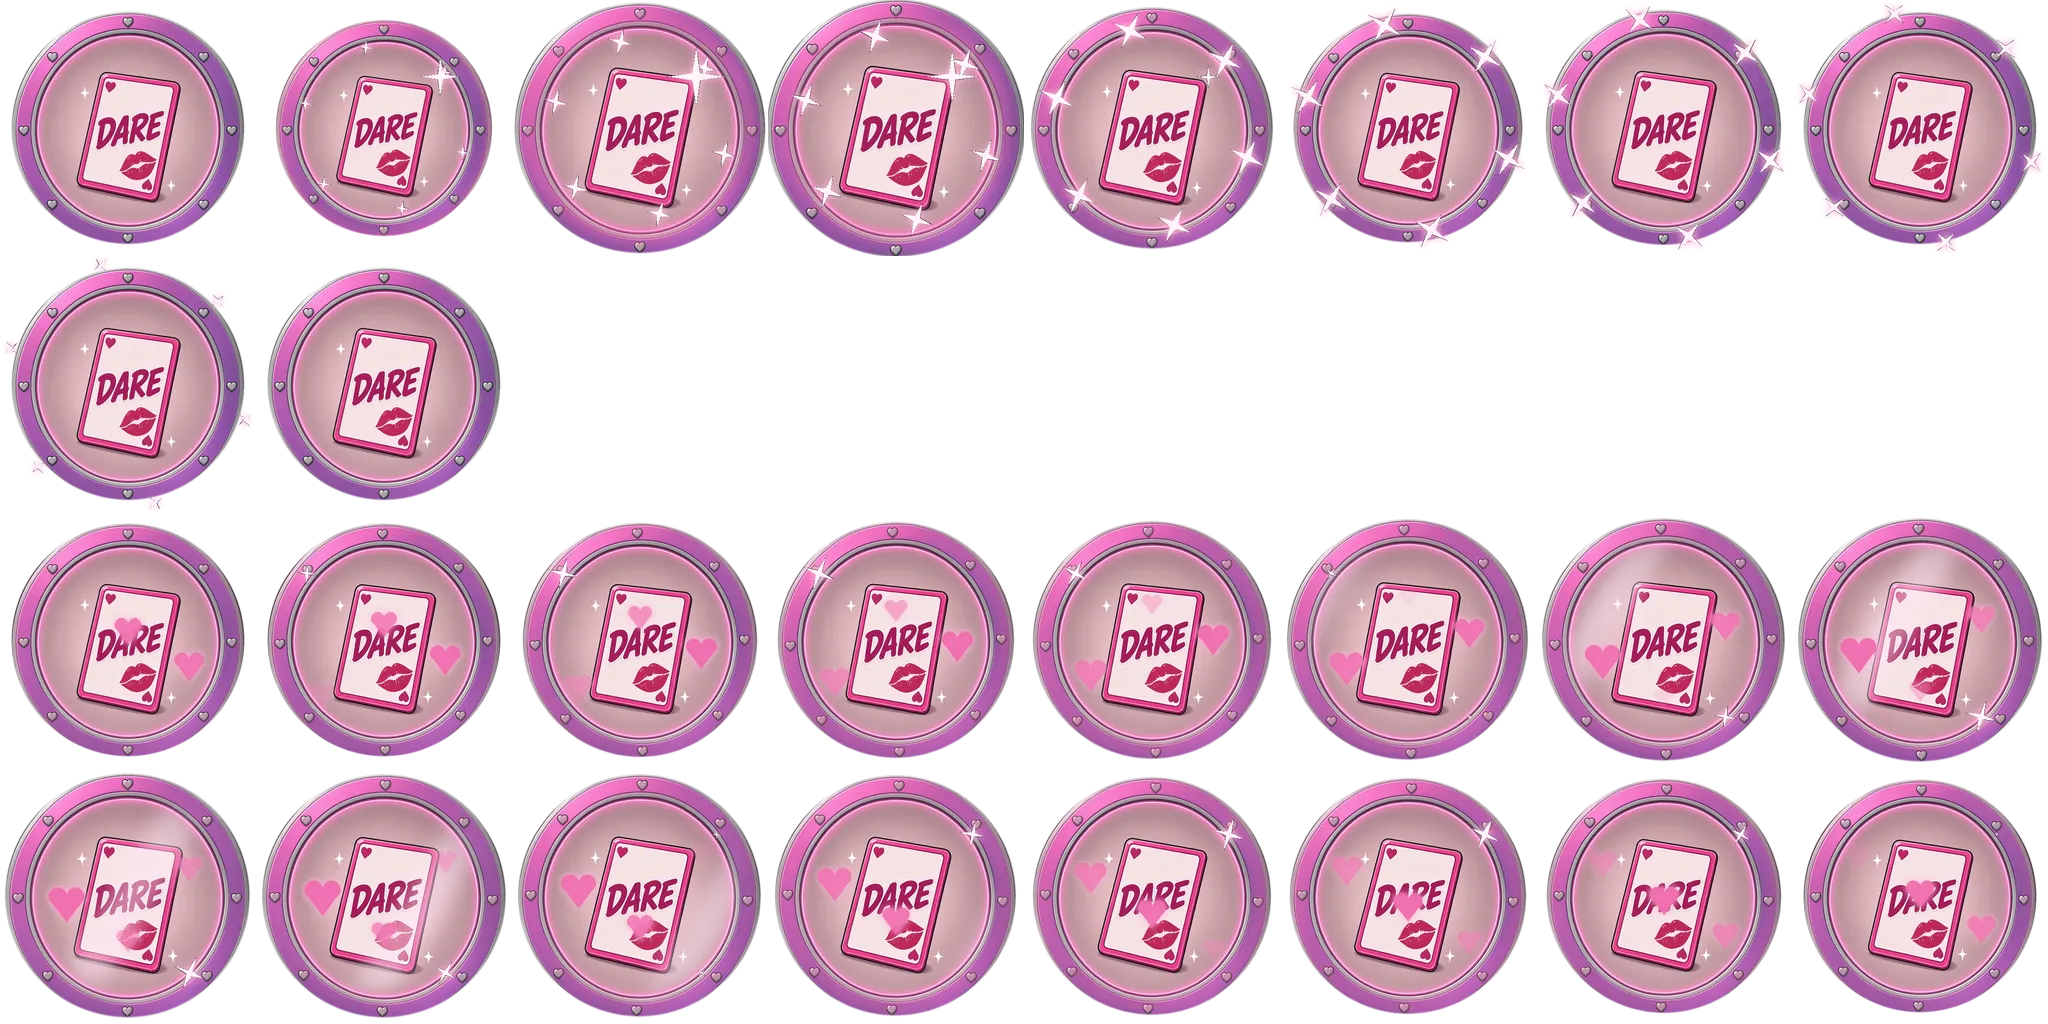
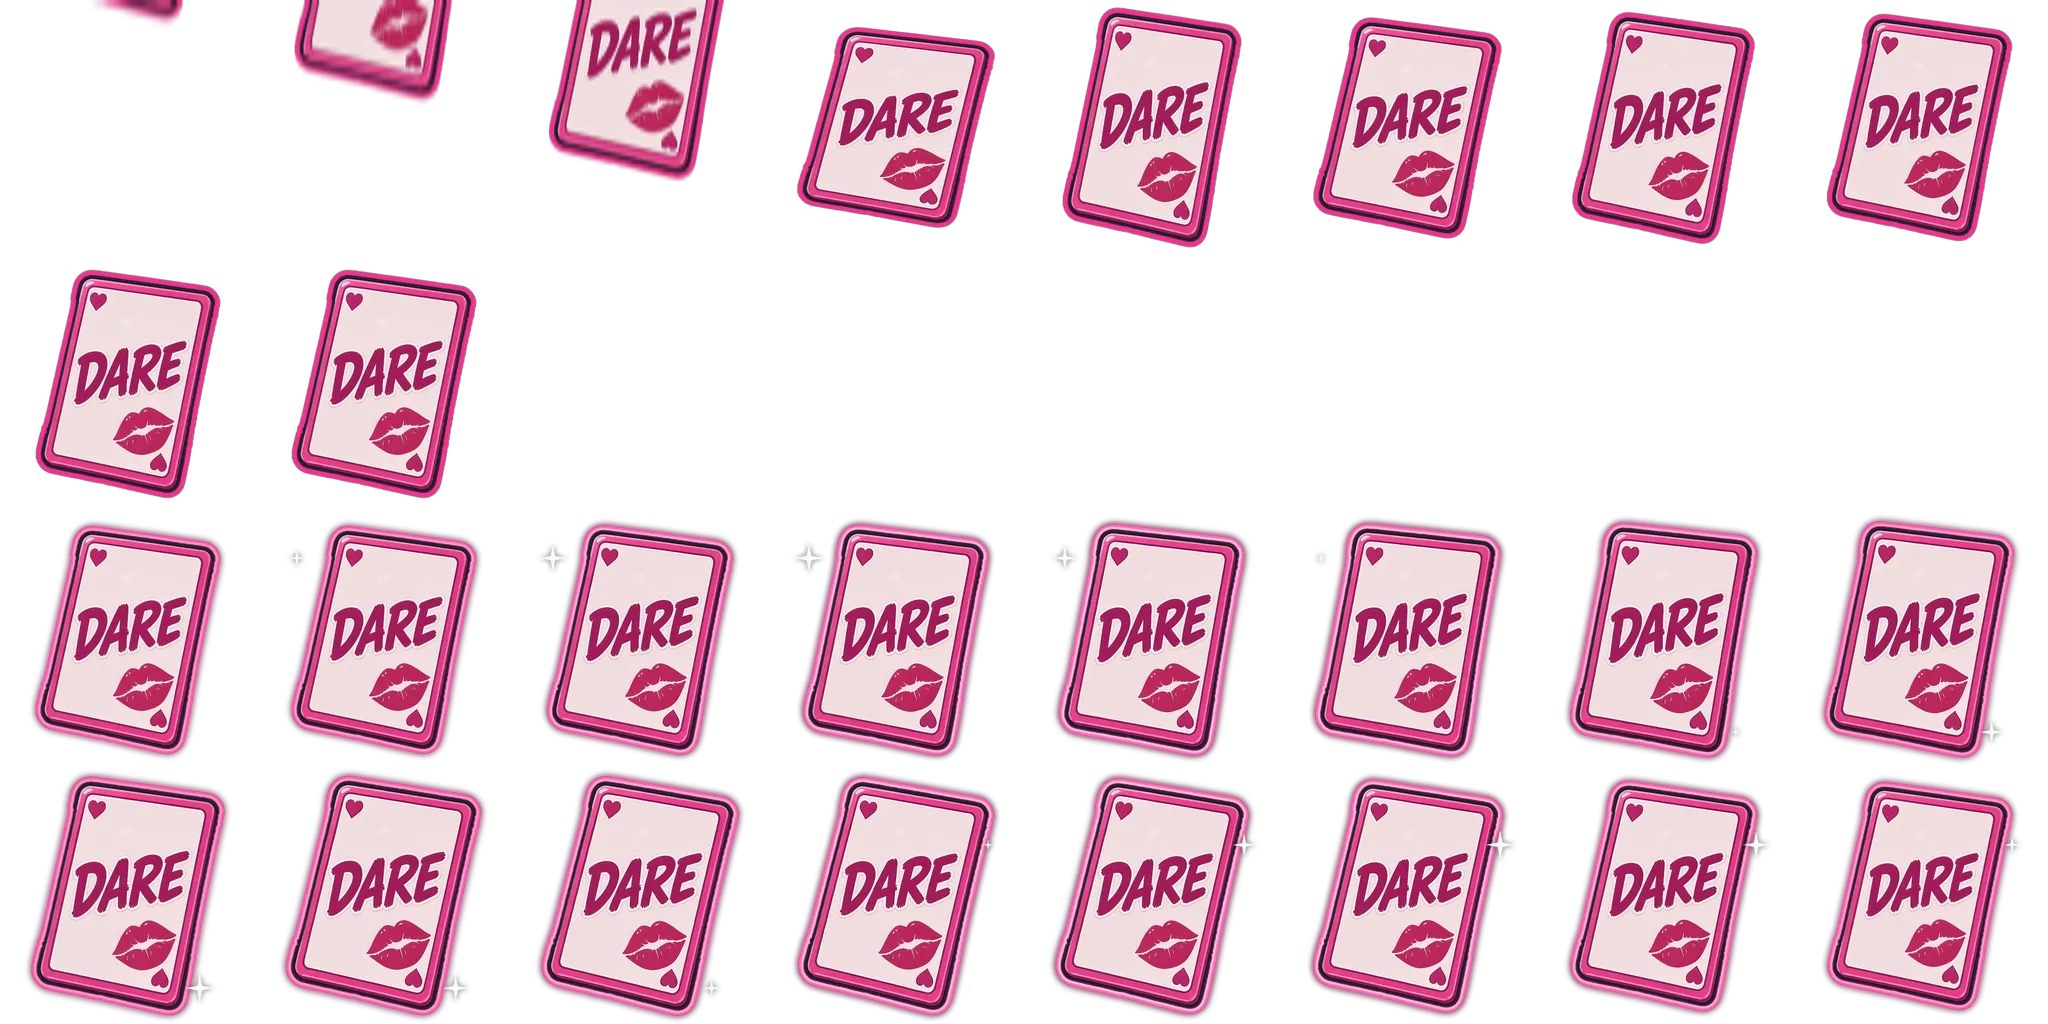
Frameless symbol set: new cutouts + wild, per-symbol win-outline layer crossfade, contain fit, darker reel panel, unmasked reel blur strips, retire round-frame cutters

diff --git a/frontend/apps/elfhaus/src/game/ui.ts b/frontend/apps/elfhaus/src/game/ui.ts
@@ -81,7 +81,7 @@ export function setGem(el: Element | null, v: number) {
 export function symHTML(name: string, v?: number) {
 	if (name === 'W') {
 		const val = v || 1;
-		return `<div class="sym W${ART.W ? ' art' : ''}">${ART.W ? img('W') + winLayer('W') : `<span class="nm">WILD</span>${ph('W')}`}<span class="plate">WILD</span></div>${gemHTML(val)}<div class="lock"><i class="lkI" style="${lockIconCSS()}"></i><span class="lkT">LOCKED</span>${DOTS}</div>`;
+		return `<div class="sym W${ART.W ? ' art' : ''}">${ART.W ? img('W') + winLayer('W') : `<span class="nm">WILD</span>${ph('W')}<span class="plate">WILD</span>`}</div>${gemHTML(val)}<div class="lock"><i class="lkI" style="${lockIconCSS()}"></i><span class="lkT">LOCKED</span>${DOTS}</div>`;
 	}
 	const t = name[0];
 	if (ART[name]) return `<div class="sym ${t} ${name} art">${img(name)}${winLayer(name)}</div>`;

diff --git a/frontend/apps/elfhaus/static/elfhaus.css b/frontend/apps/elfhaus/static/elfhaus.css
@@ -748,3 +748,7 @@ canvas.wlGlint{position:absolute;inset:0;width:100%;height:100%;pointer-events:n
 .ov .rGrow{top:40%}
 .ov .rGrow.up{border-color:#FFD2EA;color:#FFE3F2}
 .ov .rGrowSum{top:58%;left:50%;font-size:calc(var(--cell)*.3);border-color:#F7A8D2}
+/* frameless symbol set (MANIFEST 2026-10-25): clean cutouts, contain-fit, darker reel panel so the room doesn't show through */
+.sym.art{overflow:visible} .sym.art img{object-fit:contain}
+.cell.win .sym.art{border-radius:0}
+#board,body.portrait #board{background:rgba(42,36,51,.6)}

diff --git a/frontend/apps/elfhaus/scripts/sprites/gen_symbols.py b/frontend/apps/elfhaus/scripts/sprites/gen_symbols.py
@@ -7,6 +7,9 @@ animation is no longer packed: reels.ts scrolls the real art into place, so no r
                           and sway (mesh-warped hair/upper body), low symbols wobble
   idle  24f @24fps loop : wild only - gentle breathe with a slow shine pass and twinkles
 Usage: python3 scripts/sprites/gen_symbols.py [SYM ...]"""
+import sys
+if "--force" not in sys.argv: sys.exit("RETIRED: the frameless symbol set (elfhaus-frameless MANIFEST 2026-10-25) replaces this output; re-running would cut round frames back in. Pass --force to run anyway.")
+
 import math, os, sys
 from PIL import Image, ImageDraw, ImageFilter, ImageChops
 sys.path.insert(0, os.path.dirname(__file__))

diff --git a/frontend/apps/elfhaus/scripts/sprites/cut_symbols.py b/frontend/apps/elfhaus/scripts/sprites/cut_symbols.py
@@ -5,6 +5,9 @@ Writes assets/final/cut/<name>.png (RGBA, full res, used by the sprite generator
 (the runtime art, first path in art-manifest.json). Radius is the outer edge of each round frame, as a fraction of
 the tile size, with a ~1.5px feather at display size so the edge stays crisp.
 Usage: python3 scripts/sprites/cut_symbols.py"""
+import sys
+if "--force" not in sys.argv: sys.exit("RETIRED: the frameless symbol set (elfhaus-frameless MANIFEST 2026-10-25) replaces this output; re-running would cut round frames back in. Pass --force to run anyway.")
+
 import os, sys
 from PIL import Image, ImageDraw, ImageFilter
 sys.path.insert(0, os.path.dirname(__file__))
